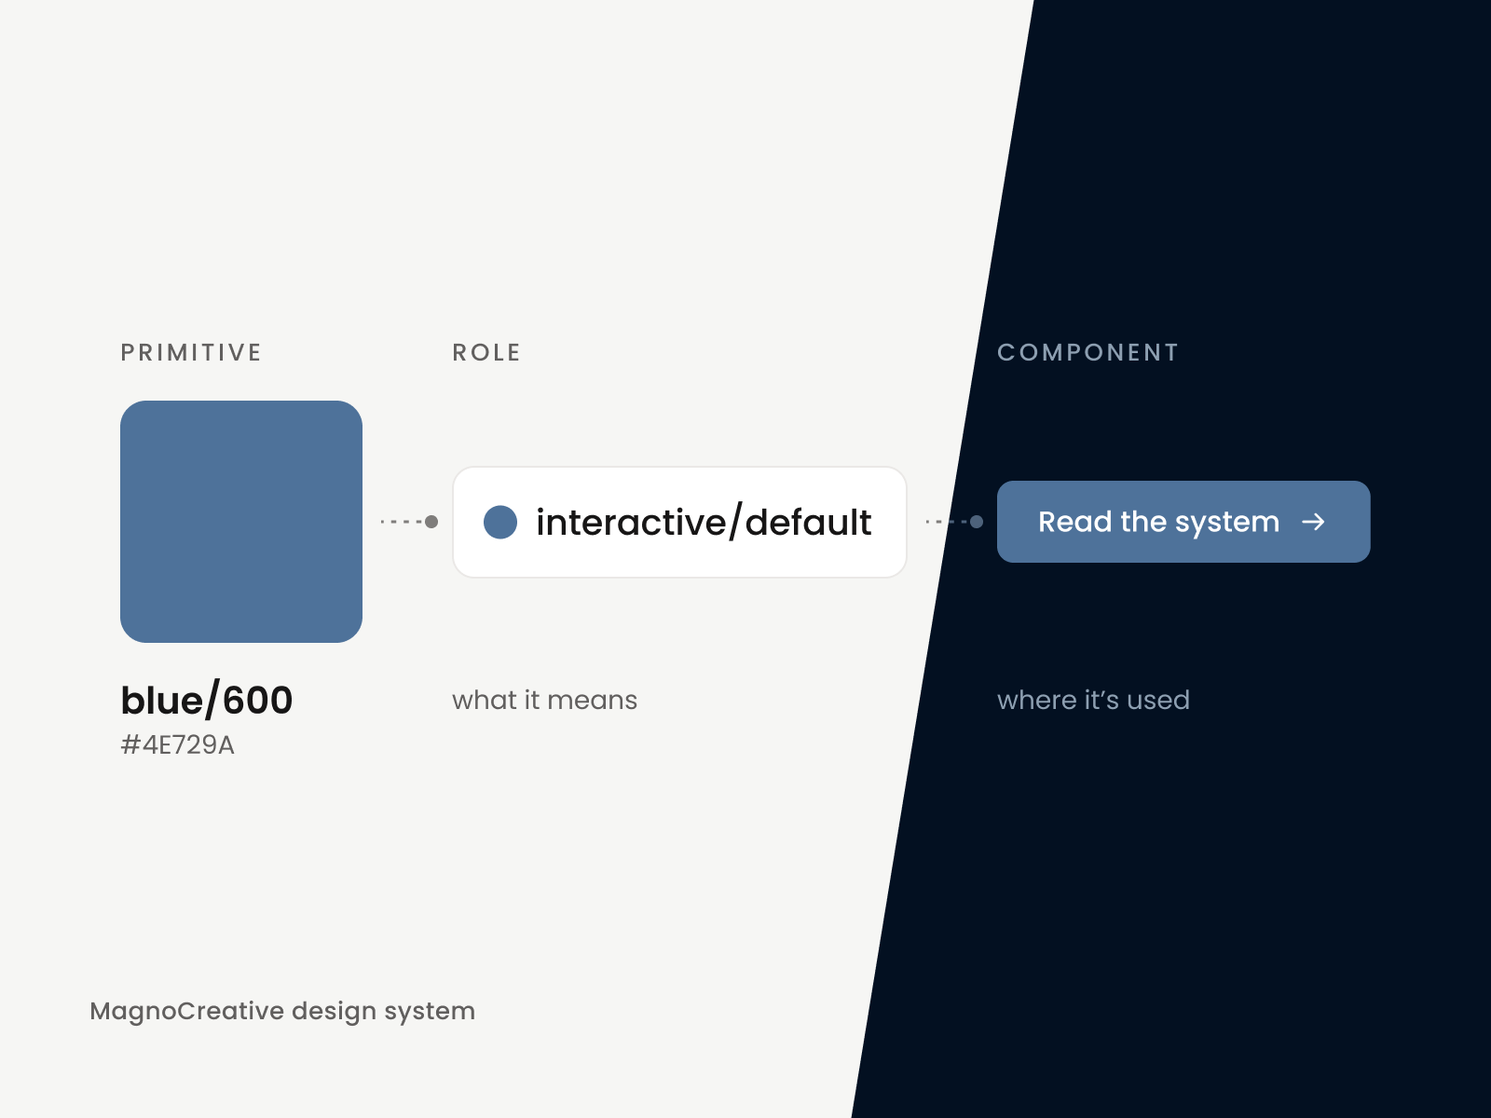
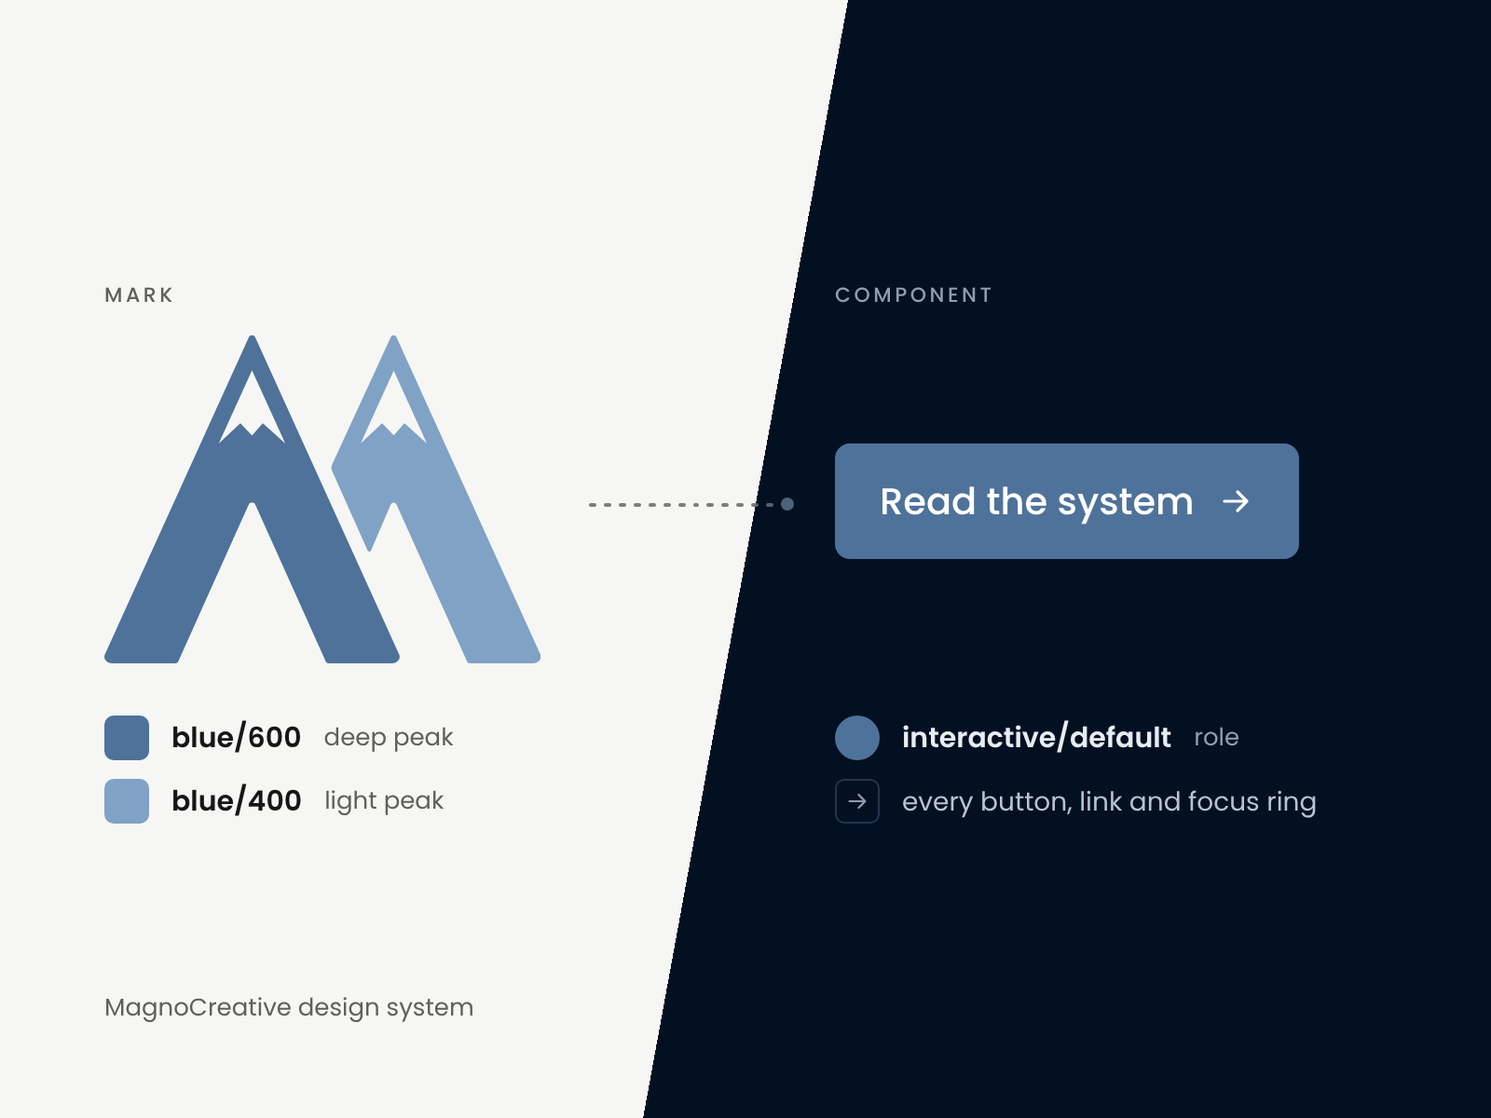
System study cover and hero start with the mark; mirrored token figure; work cards drop their number
Cover: the mark leads, its two peaks named as tokens, and the deep blue carried across the light-to-dark slant to a larger button; under it, mirroring the swatches, the role interactive/default and what it paints. Rendered from the site’s own Logo and tokens.
Hero: the chain starts with the mark (Mark, Primitive, Role, Component), each stage a little smaller so all four fit.
The mark figure: quiet dashed leaders to each peak, in the same style as the vertical connectors; each peak’s chain runs down under its label, blue/600 to interactive/default to a button, blue/400 to mark/light to the mark itself. On phones everything centers under the mark.
Figures bleed to the screen’s edges on phones, widened by both margins, like the facts panel and point cards.
Work cards: the number is gone and the facts line sits flush left on the title’s edge. The section’s count stays beside the heading.

diff --git a/src/app/work/a-system-you-can-inspect/page.tsx b/src/app/work/a-system-you-can-inspect/page.tsx
@@ -88,29 +88,36 @@ const contents = [
   },
 ];
 
-/* The hero's art, rendered live rather than exported: one color through its
-   three tiers, the same story as the cover, stood upright so it fits beside
-   the title. It is the system drawing itself, so it follows the theme. The
+/* The hero's art, rendered live rather than exported: the mark, then one
+   color through its three tiers, the same story as the cover, stood upright
+   so it fits beside the title. It is the system drawing itself, so it follows the theme. The
    swatch reads the primitive directly, which no component may do; that is the
    point of showing it, and why this lives in the page and not the library. */
 function TokenChain() {
   const tier = "font-label text-xs font-medium uppercase tracking-[0.14em] text-text-tertiary";
   const link = (
     <span className="flex flex-col items-center gap-0" aria-hidden="true">
-      <span className="h-12 border-l-2 border-dashed border-border-strong" />
+      <span className="h-7 border-l-2 border-dashed border-border-strong" />
       <span className="-mt-1 h-2.5 w-2.5 rounded-full bg-border-strong" />
     </span>
   );
+  /* Four stages since the mark joined, so each is a little smaller and
+     closer than the three were, to fit the hero's height */
   return (
-    <div className="flex flex-col items-center gap-4">
+    <div className="flex flex-col items-center gap-3">
+      {/* Where the chain starts: the mark, whose deep peak is the primitive
+          below (Alejandro, November 2026, with the cover) */}
+      <span className={tier}>Mark</span>
+      <Logo className="h-16 w-auto" title="" />
+      {link}
       <span className={tier}>Primitive</span>
-      <span className="h-28 w-28 rounded-lg" style={{ background: "var(--p-blue-600)" }} />
-      <span className="font-display text-xl text-text-primary">blue/600</span>
+      <span className="h-20 w-20 rounded-lg" style={{ background: "var(--p-blue-600)" }} />
+      <span className="font-display text-lg text-text-primary">blue/600</span>
       {link}
       <span className={tier}>Role</span>
-      <span className="flex items-center gap-3 rounded-md border border-border-subtle bg-surface-raised px-5 py-3.5">
-        <span className="h-4 w-4 rounded-full bg-interactive" />
-        <span className="text-lg text-text-primary">interactive/default</span>
+      <span className="flex items-center gap-3 rounded-md border border-border-subtle bg-surface-raised px-4 py-2.5">
+        <span className="h-3.5 w-3.5 rounded-full bg-interactive" />
+        <span className="text-base text-text-primary">interactive/default</span>
       </span>
       {link}
       <span className={tier}>Component</span>
@@ -296,83 +303,89 @@ export default function SystemCaseStudy() {
                 <LogoRoughs />
               </Figure>
             {/* The end of the mark's story and the start of the system's
-                (Alejandro, November 2026: give the mark a prominent presence,
-                annotated, then the tokens after). The mark large and drawn
-                live from the site's artwork, each peak labeled with its token
-                and value; under it, each token on to the role it fills and,
-                for the deep peak, the button it paints. Page code, so it may
-                show the primitives by name. */}
+                (Alejandro, November 2026). The mark large and drawn live,
+                each peak labeled with its token on a quiet dashed leader, the
+                site's connector (the hero chains use the same dash and dot).
+                Under each label, that peak's chain runs down into the
+                system, so the two halves mirror: the deep peak reaches every
+                control, the light peak belongs to the mark alone. Page code,
+                so it may show the primitives by name. */}
             <Figure
               ratio="auto"
-              caption="The final mark, and its two peaks as tokens: the deep one is the blue of every button, link and focus ring on this site."
+              caption="The final mark, and its two peaks as tokens: the deep one paints every button, link and focus ring, and the light one stays with the mark."
             >
               <div
                 role="img"
-                aria-label="The final MagnoCreative mark, two blue mountains forming an M, shown large. The deep peak, on the left, is the token blue/600, hex 4E729A; the light peak, on the right, is blue/400, hex 80A2C4. Into the system: blue/600 fills the role interactive/default, the color of a button; blue/400 fills mark/light."
-                className="flex flex-col gap-8 p-6 sm:p-10"
+                aria-label="The final MagnoCreative mark, two blue mountains forming an M, shown large. The deep peak, on the left, is the token blue/600, hex 4E729A; it fills the role interactive/default, which paints every button, link and focus ring. The light peak, on the right, is blue/400, hex 80A2C4; it fills mark/light, used only by the mark itself."
+                className="grid grid-cols-1 gap-x-0 gap-y-10 px-6 py-8 sm:grid-cols-[1fr_auto_1fr] sm:gap-y-8 sm:p-10"
               >
-                {/* The mark, annotated: a leader from each side to its peak */}
-                <span className="grid grid-cols-2 items-center gap-x-4 gap-y-6 sm:grid-cols-[1fr_auto_1fr] sm:gap-x-0">
-                  <span className="col-span-2 flex justify-center sm:order-2 sm:col-span-1">
-                    <Logo className="h-36 w-auto sm:h-44" title="" />
-                  </span>
-                  {(
-                    [
-                      ["--p-blue-600", "Deep peak", "blue/600", "#4E729A", "left"],
-                      ["--p-blue-400", "Light peak", "blue/400", "#80A2C4", "right"],
-                    ] as const
-                  ).map(([v, peak, name, hex, side]) => (
+                <span className="flex justify-center sm:col-start-2 sm:row-start-1">
+                  <Logo className="h-36 w-auto sm:h-44" title="" />
+                </span>
+                {(
+                  [
+                    ["--p-blue-600", "Deep peak", "blue/600", "#4E729A", "interactive/default", "left"],
+                    ["--p-blue-400", "Light peak", "blue/400", "#80A2C4", "mark/light", "right"],
+                  ] as const
+                ).map(([v, peak, name, hex, role, side]) => {
+                  const left = side === "left";
+                  /* Centered under the mark on a phone; from sm, the left chain
+                     hugs the left edge and the right one mirrors it */
+                  const end = left ? "sm:items-start sm:text-left" : "sm:items-end sm:text-right";
+                  const self = left ? "self-center sm:self-start" : "self-center sm:self-end";
+                  /* The site's connector: a short dashed run and a dot */
+                  const down = (
+                    <span aria-hidden="true" className={`flex flex-col items-center ${self} ${left ? "sm:ml-[11.5px]" : "sm:mr-[11.5px]"}`}>
+                      <span className="h-5 border-l border-dashed border-border-strong" />
+                      <span className="-mt-0.5 h-1.5 w-1.5 rounded-full bg-border-strong" />
+                    </span>
+                  );
+                  return (
                     <span
                       key={name}
-                      className={`flex items-center gap-3 ${
-                        side === "left" ? "sm:order-1 sm:flex-row-reverse sm:text-right" : "sm:order-3"
-                      }`}
+                      className={`flex flex-col items-center gap-2 text-center sm:row-start-1 ${left ? "sm:col-start-1" : "sm:col-start-3"} ${end}`}
                     >
-                      <span aria-hidden="true" className="hidden h-px flex-1 bg-border-strong sm:block" />
-                      <span aria-hidden="true" className="hidden h-2 w-2 shrink-0 rounded-full bg-border-strong sm:block" />
-                      <span className={`flex flex-col gap-1.5 ${side === "left" ? "sm:items-end" : ""}`}>
-                        <span className="font-label text-xs uppercase tracking-[0.11em] text-text-tertiary">{peak}</span>
-                        <span className={`flex items-center gap-2 ${side === "left" ? "sm:flex-row-reverse" : ""}`}>
-                          <span className="h-6 w-6 shrink-0 rounded-sm" style={{ background: `var(${v})` }} />
-                          <span className="text-sm font-medium text-text-primary">{name}</span>
+                      {/* The label, with its leader to the peak, in the same dash,
+                    weight and gray as the chain's connectors below */}
+                      <span className={`flex items-center justify-center gap-3 self-stretch sm:justify-start ${left ? "" : "sm:flex-row-reverse"}`}>
+                        {/* One line on a phone, label over value beside the mark */}
+                        <span className={`flex flex-row items-baseline gap-x-2 sm:flex-col sm:gap-1 ${end}`}>
+                          <span className="font-label text-xs uppercase tracking-[0.11em] text-text-tertiary">{peak}</span>
+                          <span aria-hidden="true" className="font-label text-xs text-text-tertiary opacity-50 sm:hidden">
+                            ·
+                          </span>
+                          <span className="font-label text-xs text-text-tertiary">{hex}</span>
                         </span>
-                        <span className="font-label text-xs text-text-tertiary">{hex}</span>
+                        <span aria-hidden="true" className={`hidden flex-1 items-center sm:flex ${left ? "" : "flex-row-reverse"}`}>
+                          <span className="flex-1 border-t border-dashed border-border-strong" />
+                          <span className="h-1.5 w-1.5 rounded-full bg-border-strong" />
+                        </span>
                       </span>
-                    </span>
-                  ))}
-                </span>
-
-                {/* Then into the system: each token on to the role it fills */}
-                <span className="flex flex-col gap-3 border-t border-border-subtle pt-6">
-                  <span className="font-label text-xs uppercase tracking-[0.11em] text-text-tertiary">
-                    Into the system
-                  </span>
-                  {(
-                    [
-                      ["--p-blue-600", "blue/600", "interactive/default", true],
-                      ["--p-blue-400", "blue/400", "mark/light", false],
-                    ] as const
-                  ).map(([v, name, role, button]) => (
-                    <span key={name} className="flex flex-wrap items-center gap-x-3 gap-y-2">
-                      <span className="h-5 w-5 shrink-0 rounded-sm" style={{ background: `var(${v})` }} />
-                      <span className="text-sm font-medium text-text-primary">{name}</span>
-                      <ArrowRight className="h-4 w-4 shrink-0 text-text-tertiary" />
-                      <span className="rounded-sm border border-border-subtle bg-surface-raised px-2.5 py-1 text-sm text-text-primary">
+                      {/* Then down into the system */}
+                      <span className={`mt-1 flex items-center gap-2.5 sm:mt-3 ${self} ${left ? "" : "sm:flex-row-reverse"}`}>
+                        <span className="h-6 w-6 shrink-0 rounded-sm" style={{ background: `var(${v})` }} />
+                        <span className="text-sm font-medium text-text-primary">{name}</span>
+                      </span>
+                      {down}
+                      <span className={`w-fit rounded-sm border border-border-subtle bg-surface-raised px-2.5 py-1 text-sm text-text-primary ${self}`}>
                         {role}
                       </span>
-                      {/* The button sample from a tablet up; on a phone the row
-                          would wrap it onto a line of its own */}
-                      {button && (
-                        <span className="hidden items-center gap-3 sm:flex">
-                          <ArrowRight className="h-4 w-4 shrink-0 text-text-tertiary" />
+                      {down}
+                      <span className={self}>
+                        {left ? (
                           <Button specimen variant="primary" fillOnPhone={false}>
                             Button
                           </Button>
-                        </span>
-                      )}
+                        ) : (
+                          <Logo className="h-9 w-auto" title="" />
+                        )}
+                      </span>
+                      <span className="text-xs text-text-tertiary">
+                        {left ? "Every button, link and focus ring" : "The mark, wherever it appears"}
+                      </span>
                     </span>
-                  ))}
-                </span>
+                  );
+                })}
               </div>
             </Figure>
             </>

diff --git a/src/design-system/components/WorkEntry.stories.tsx b/src/design-system/components/WorkEntry.stories.tsx
@@ -11,12 +11,9 @@ const meta = {
     docs: {
       description: {
         component:
-          "One case study on the work index: a card with the cover and the record (number, organization, title, standfirst, action). Side by side from 54rem of card width, stacked below. Covers are made for the site, never employer screens.\n\nFigma: Work entry.",
+          "One case study on the work index: a card with the cover and the record (organization, title, standfirst, action). Side by side from 54rem of card width, stacked below. Covers are made for the site, never employer screens.\n\nFigma: Work entry.",
       },
     },
-  },
-  argTypes: {
-    index: { control: { type: "number", min: 0, max: 20 } },
   },
 } satisfies Meta<typeof WorkEntry>;
 
@@ -25,7 +22,6 @@ type Story = StoryObj<typeof meta>;
 
 export const Published: Story = {
   args: {
-    index: 0,
     study: { ...caseStudies[0], status: "published" },
   },
   parameters: {
@@ -40,7 +36,6 @@ export const Published: Story = {
 
 export const Draft: Story = {
   args: {
-    index: 1,
     study: { ...caseStudies[1], status: "draft" },
   },
   parameters: {
@@ -55,7 +50,6 @@ export const Draft: Story = {
 
 export const LongTitle: Story = {
   args: {
-    index: 11,
     study: {
       ...caseStudies[1],
       title: "Sixteen applications across three platforms, and no way for anyone to know when any of them would break",
@@ -73,7 +67,7 @@ export const LongTitle: Story = {
 };
 
 export const TheIndex: Story = {
-  args: { index: 0, study: caseStudies[0] },
+  args: { study: caseStudies[0] },
   parameters: {
     layout: "fullscreen",
     docs: {
@@ -87,8 +81,8 @@ export const TheIndex: Story = {
     <div style={{ padding: "2rem", maxWidth: "84rem", margin: "0 auto" }}>
       <SectionHead count={caseStudies.length}>Case studies</SectionHead>
       <div style={{ marginTop: "2.5rem", display: "flex", flexDirection: "column", gap: "1rem" }}>
-        {caseStudies.map((study, i) => (
-          <WorkEntry key={study.slug} study={study} index={i} />
+        {caseStudies.map((study) => (
+          <WorkEntry key={study.slug} study={study} />
         ))}
       </div>
     </div>
@@ -97,7 +91,6 @@ export const TheIndex: Story = {
 
 export const Phone: Story = {
   args: {
-    index: 0,
     study: { ...caseStudies[0], status: "published" },
   },
   globals: { viewport: { value: "phone", isRotated: false } },
@@ -116,7 +109,7 @@ export const Phone: Story = {
 
 export const PhoneDraft: Story = {
   name: "Phone, draft",
-  args: { index: 1, study: { ...caseStudies[1], status: "draft" } },
+  args: { study: { ...caseStudies[1], status: "draft" } },
   globals: { viewport: { value: "phone", isRotated: false } },
   parameters: {
     layout: "fullscreen",

diff --git a/src/design-system/components/WorkEntry.tsx b/src/design-system/components/WorkEntry.tsx
@@ -76,7 +76,7 @@ function Cover({ study }: { study: CaseStudy }) {
  * Drafts are marked, never dimmed. Fading them would make the most important
  * content on the page the least legible thing on it.
  */
-export function WorkEntry({ study, index }: { study: CaseStudy; index: number }) {
+export function WorkEntry({ study }: { study: CaseStudy }) {
   const isDraft = study.status === "draft";
   // A draft is not a link in production: nobody should click into a page that
   // has not been written. Locally it links through, so a study can be read in
@@ -102,11 +102,12 @@ export function WorkEntry({ study, index }: { study: CaseStudy; index: number })
         <Cover study={study} />
       </div>
 
-      {/* The top row answers who, what and when before the title: the index
-          at the left and the facts at the right, wrapping under the index
-          when a phone has no room for both on one line. The footer holds
-          only the action, at the left where the eye returns after the
-          standfirst (Alejandro, November 2026).
+      {/* The top row answers who, what and when before the title, flush left
+          on the title's edge. It used to open with the card's number (01, 02),
+          with the facts at the right; the number said nothing a reader needed,
+          and the facts read better where the eye starts (Alejandro, November
+          2026). The footer holds only the action, at the left where the eye
+          returns after the standfirst.
 
           Spacing: the facts are metadata, so they get more air above the
           title (24px, 20 on a phone) than the title gets above the
@@ -115,8 +116,7 @@ export function WorkEntry({ study, index }: { study: CaseStudy; index: number })
           separators are half strength so the facts, not the dots, carry the
           row. */}
       <div className="flex flex-col px-6 pt-7 pb-8 sm:px-8 sm:pb-10 @min-[54rem]:p-8 @5xl:p-12">
-        <div className="flex flex-wrap items-center justify-between gap-x-6 gap-y-2">
-          <span className="font-label text-xs text-text-tertiary">{String(index + 1).padStart(2, "0")}</span>
+        <div className="flex flex-wrap items-center gap-x-6 gap-y-2">
           {/* Employer, discipline, when: one line to read. The employer
               leads with its mark, alone and in the line's own gray (the
               Mono org-logo, 32px with the mark about 23px tall): the 24px

diff --git a/src/content/case-studies.ts b/src/content/case-studies.ts
@@ -68,12 +68,14 @@ export const caseStudies: CaseStudy[] = [
     logo: "magnocreative",
     period: "2026",
     status: "published",
-    // Made in the Figma Site file (Thumbnail covers), from the library's own
-    // variables and Button: one color through its three tiers, with the
-    // ground split light and dark on a slant. The blue holds on both sides.
+    // Rendered from the site's own Logo and tokens (Alejandro, November
+    // 2026): the mark leads, its two peaks named as tokens, and the deep one
+    // carried across a light-to-dark slant to the button it paints, whose
+    // role and reach sit in rows that mirror the swatches. Captured once per
+    // theme and joined along the slant.
     cover: {
       src: systemCover,
-      alt: "A blue swatch labeled blue/600, joined by a dotted line to a chip labeled interactive/default, and on to a button reading Read the system. The ground is split on a slant, light on the left and dark on the right, and the blue is the same on both sides.",
+      alt: "The MagnoCreative mark, two blue mountain peaks forming an M, with its two blues named below: blue/600, the deep peak, and blue/400, the light peak. A dotted line carries the deep blue across a slanted split from a light ground to a dark one, to a larger button reading Read the system; under it, mirroring the swatches, the role interactive/default and every button, link and focus ring.",
     },
   },
   // Second, and the first written in the two halves (What changed, How I got

diff --git a/src/design-system/components/Figure.tsx b/src/design-system/components/Figure.tsx
@@ -24,6 +24,12 @@ import type { ReactNode } from "react";
  * Captions break with text-wrap: pretty, so a last word never sits alone on
  * its line.
  *
+ * Below 640 a framed figure bleeds to the screen's edges, like the facts
+ * panel and the point cards: a phone has no width to spare for a frame
+ * inside the page's margins (Alejandro, November 2026). It is widened by
+ * both margins as well as pulled left, or it stops short of the right edge.
+ * The caption keeps the margins.
+ *
  * `children` replaces the image with something live in the same frame, such
  * as a CompareSlider. It fills the frame, so it gets the same ratio, edge and
  * caption as a still. A live figure also gets an actions cell at the right of
@@ -75,7 +81,7 @@ export function Figure({
           controls (Alejandro, November 2026: the tag and Reset together
           crowded the right of the caption) */}
       <div
-        className={`relative w-full ${bare ? "" : "overflow-hidden rounded-sm border border-border-default bg-surface-inset"} ${children ? "col-span-full" : ""}`}
+        className={`relative w-full ${bare ? "" : "overflow-hidden rounded-sm border border-border-default bg-surface-inset max-sm:-mx-6 max-sm:w-[calc(100%+3rem)] max-sm:rounded-none max-sm:border-x-0"} ${children ? "col-span-full" : ""}`}
         style={{ aspectRatio: ratio }}
       >
         {children ? (

diff --git a/src/app/page.tsx b/src/app/page.tsx
@@ -80,8 +80,8 @@ export default function Home() {
             <SectionHead id="work-heading" count={caseStudies.length}>Case studies</SectionHead>
 
             <div className="mt-10 flex flex-col gap-4">
-              {caseStudies.map((study, i) => (
-                <WorkEntry key={study.slug} study={study} index={i} />
+              {caseStudies.map((study) => (
+                <WorkEntry key={study.slug} study={study} />
               ))}
             </div>
           </section>

diff --git a/src/app/work/page.tsx b/src/app/work/page.tsx
@@ -60,8 +60,8 @@ export default function Work() {
 
           {/* Cards 16px apart, as on the résumé: the border separates them. */}
           <div className="mt-10 flex flex-col gap-4">
-            {caseStudies.map((study, i) => (
-              <WorkEntry key={study.slug} study={study} index={i} />
+            {caseStudies.map((study) => (
+              <WorkEntry key={study.slug} study={study} />
             ))}
           </div>
         </section>

diff --git a/src/app/system/components/page.tsx b/src/app/system/components/page.tsx
@@ -404,7 +404,7 @@ export default function ComponentsPage() {
                     as it does on /work, and on a phone it runs to the
                     screen's edges as it does there. */}
                 <div className="mt-8">
-                  <WorkEntry study={caseStudies[1]} index={1} />
+                  <WorkEntry study={caseStudies[1]} />
                 </div>
 
                 <Note className="mt-6">
